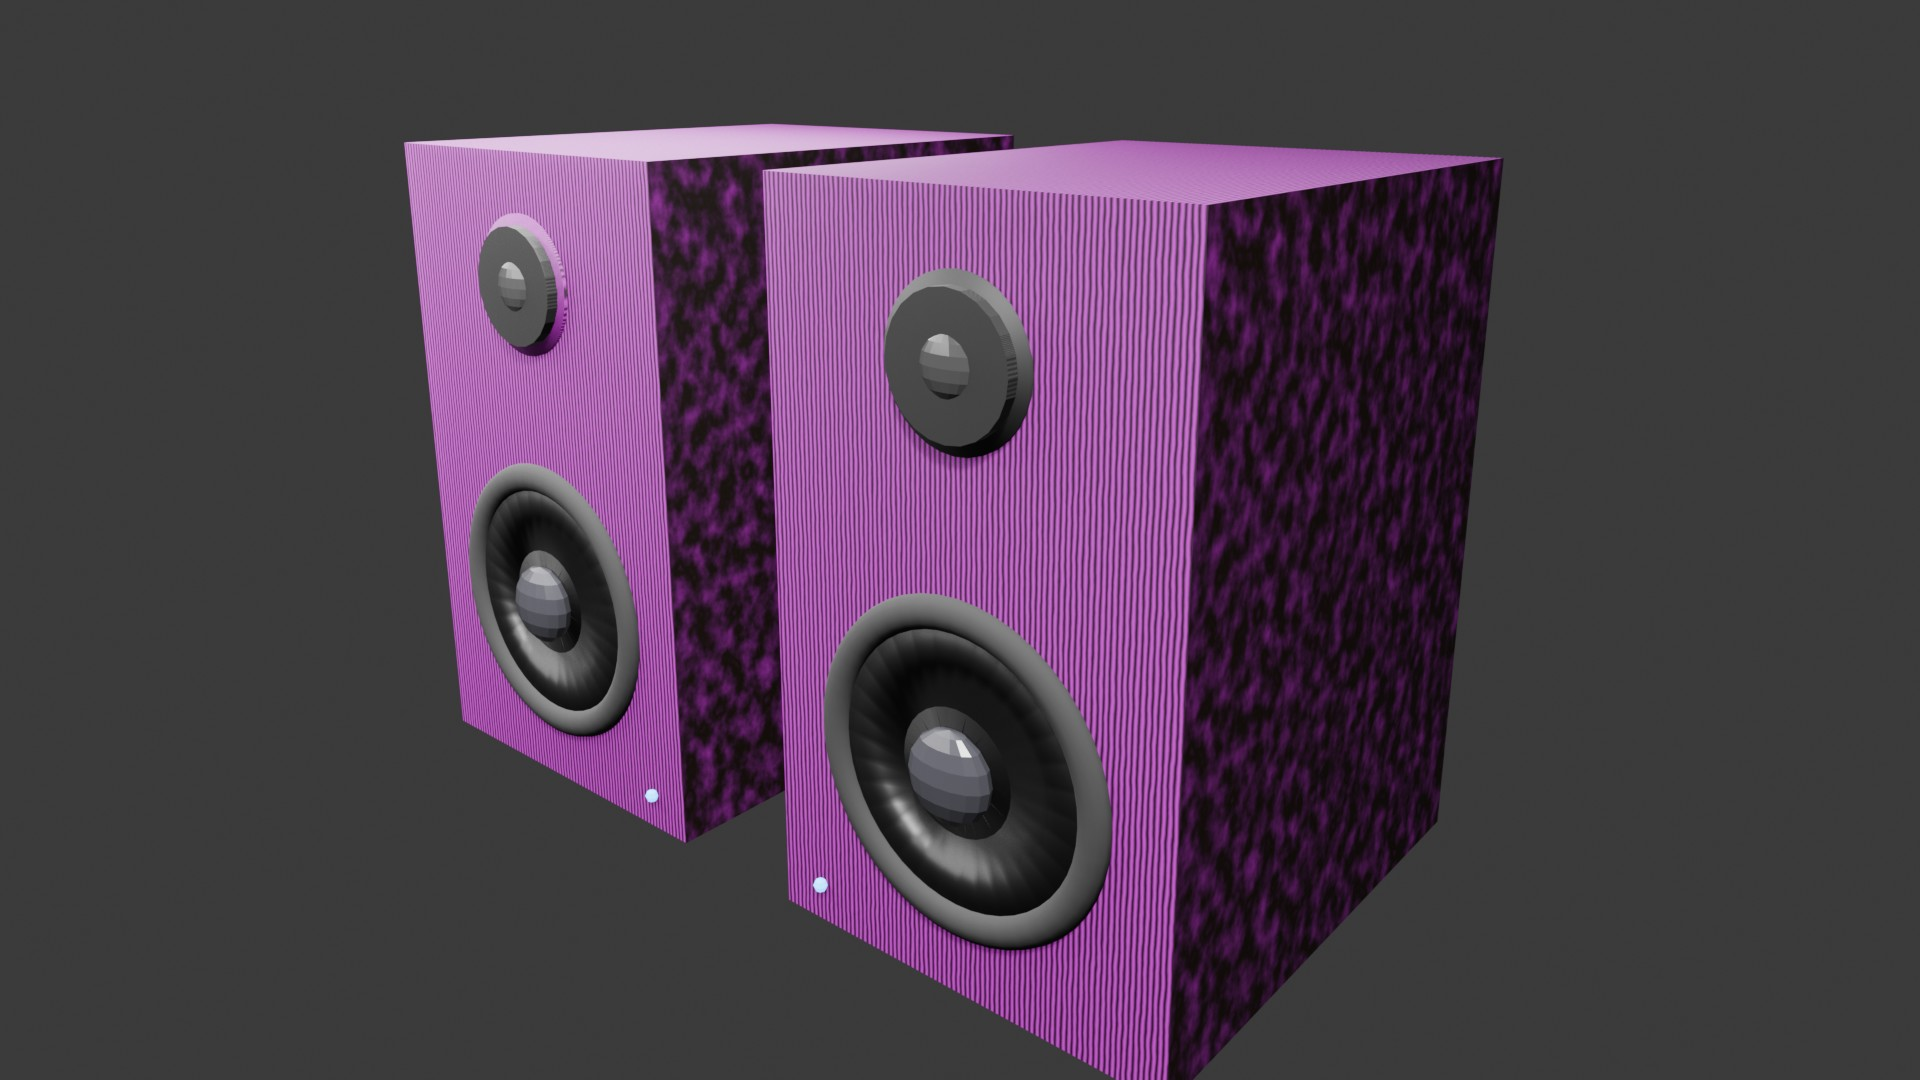
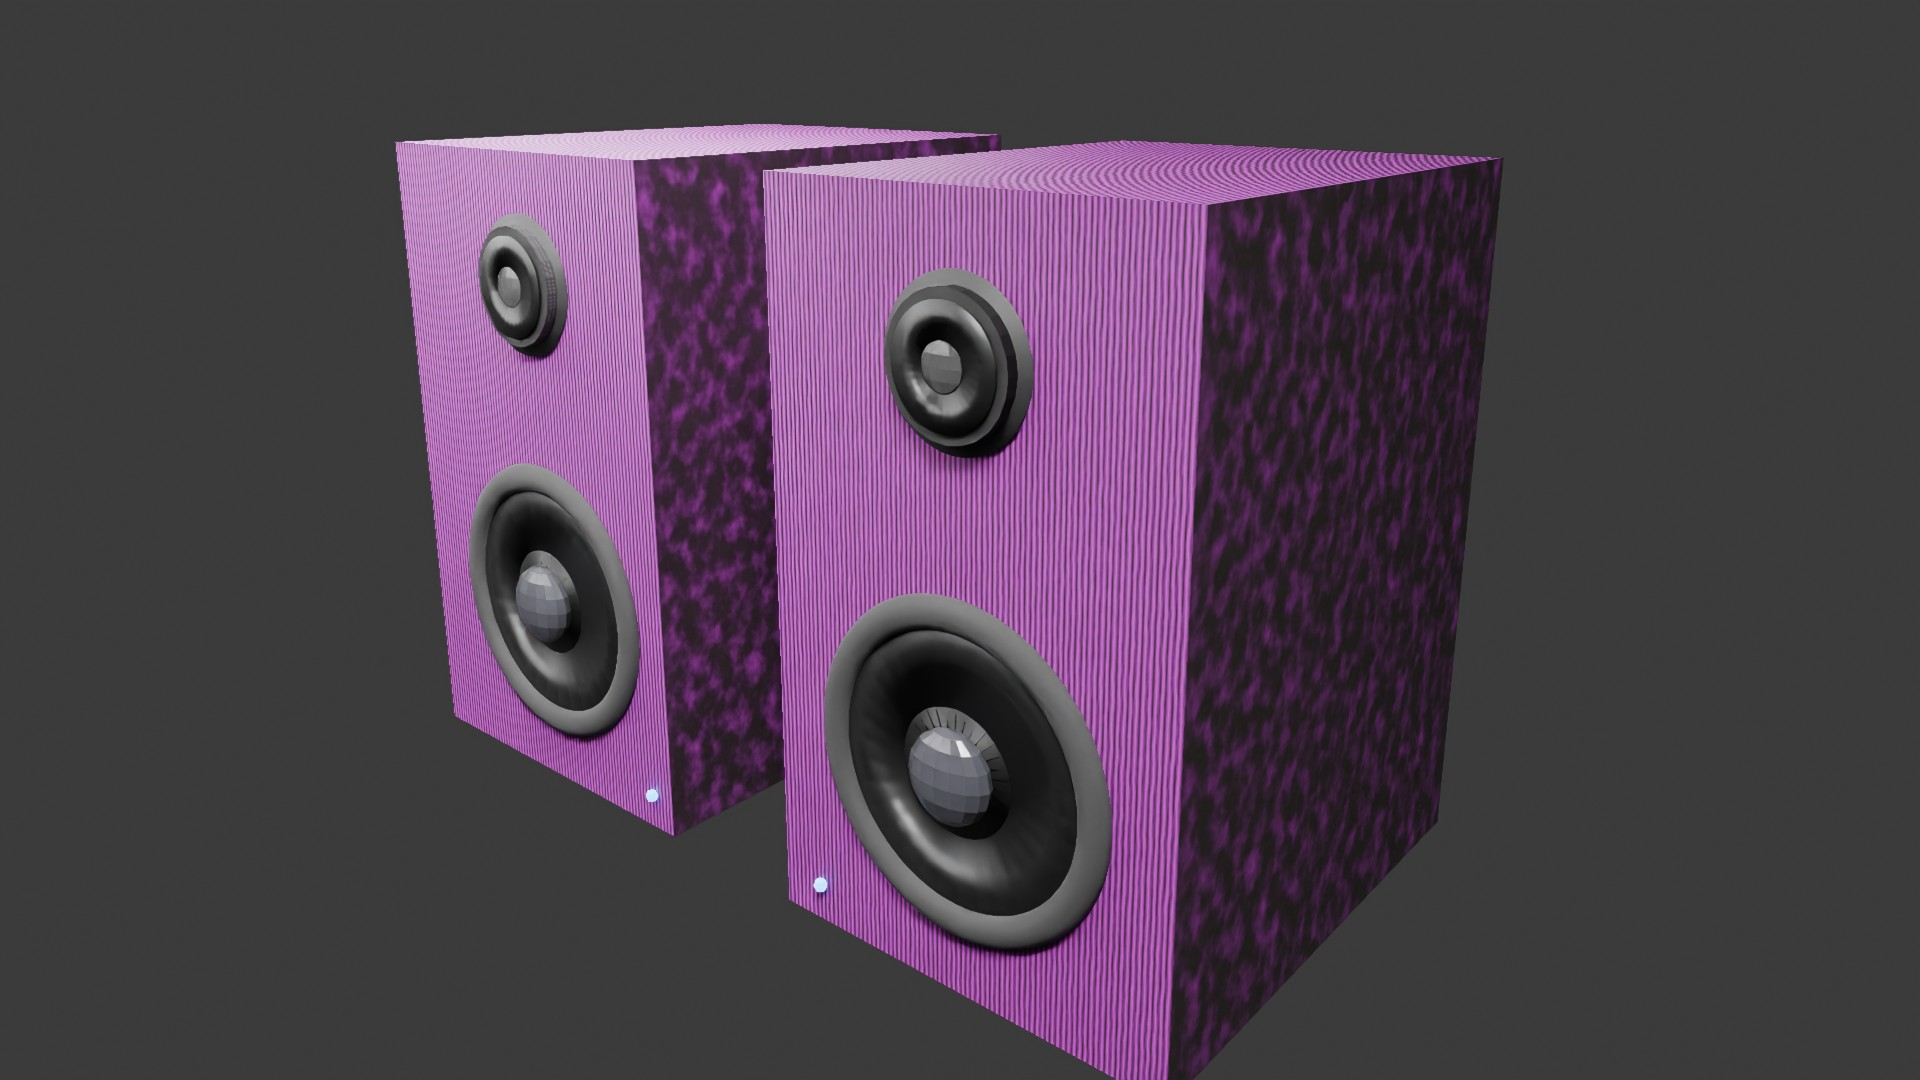
progress - gallery

diff --git a/js/main.js b/js/main.js
@@ -1,44 +1,272 @@
-let scene, camera, renderer, box;
+import * as THREE from 'three';
+import { GLTFLoader } from 'three/addons/loaders/GLTFLoader.js';
+import { OrbitControls } from 'three/addons/controls/OrbitControls.js';
 
-init();
+
+let scene, camera, renderer, controls;
+let currentModel = null;
+let mixer = null;
+let clock = new THREE.Clock();
+let autoRotate = false;
+let animationPlaying = false;
+let spotLight, spotLightOn = false, spotLightIntensity = 3;
+
 
 function init() {
+    const container = document.getElementById('threejs-container');
+    if (!container) return; 
+
+    const width  = container.clientWidth;
+    const height = container.clientHeight || 500;
+
+    // Scene
     scene = new THREE.Scene();
 
-    scene.background = new THREE.Color(0x121212);
 
-    camera = new THREE.PerspectiveCamera(75, window.innerWidth / window.innerHeight, 0.1, 1000);
-    camera.position.z = 3;
+    // Camera
+    camera = new THREE.PerspectiveCamera(50, width / height, 0.1, 1000);
+    camera.position.set(0, 1, 3);
 
-    renderer = new THREE.WebGLRenderer
-    renderer.setSize(window.innerWidth, window.innerHeight);
-    document.body.appendChild(renderer.domElement);
+    // Renderer
+    renderer = new THREE.WebGLRenderer({ antialias: true });
+    renderer.setSize(width, height);
+    renderer.setPixelRatio(window.devicePixelRatio);
+    renderer.shadowMap.enabled = true;
+    container.appendChild(renderer.domElement);
 
-    const light = new THREE.DirectionalLight();
-    light.position.set(0, 1, 2).normalize();
-    scene.add(light);
+    // Lights
+    const ambientLight = new THREE.AmbientLight(0xffffff, 0.5);
+    scene.add(ambientLight);
 
-    const material = new THREE.MeshStandardMaterial({ color: 0x81D8D0 });
+    const dirLight = new THREE.DirectionalLight(0xffffff, 1.2);
+    dirLight.position.set(5, 10, 7.5);
+    dirLight.castShadow = true;
+    scene.add(dirLight);
 
-    const geometry = new THREE.BoxGeometry(1, 1, 1);
-    box = new THREE.Mesh(geometry, material);
-    box.position.x = 0;
-    scene.add(box);
+    spotLight = new THREE.SpotLight(0xfff4e0, 0);
+    spotLight.position.set(0, 5, 3);
+    spotLight.angle = Math.PI / 6;
+    spotLight.penumbra = 0.3;
+    spotLight.decay = 1;
+    spotLight.distance = 25;
+    spotLight.castShadow = true;
+    spotLight.target.position.set(0, 0, 0);
+    scene.add(spotLight);
+    scene.add(spotLight.target);
 
-    window.addEventListener('resize', onWindowResize, false);
+    // controls
+    controls = new OrbitControls(camera, renderer.domElement);
+    controls.enableDamping = true;
+    controls.target.set(0, 0.5, 0);
+    controls.update();
 
-    update();
+    // Resize handler
+    window.addEventListener('resize', onResize);
+
+    animate();
 }
 
-function update() {
-    requestAnimationFrame(update);
-    box.rotation.x += 0.01;
-    box.rotation.y += 0.01;
+function onResize() {
+    const container = document.getElementById('threejs-container');
+    if (!container || !renderer) return;
+    camera.aspect = container.clientWidth / container.clientHeight;
+    camera.updateProjectionMatrix();
+    renderer.setSize(container.clientWidth, container.clientHeight);
+}
+
+// Animation 
+function animate() {
+    requestAnimationFrame(animate);
+    const delta = clock.getDelta();
+
+    if (mixer) mixer.update(delta);
+    if (autoRotate && currentModel) currentModel.rotation.y += 0.008;
+
+    controls.update();
     renderer.render(scene, camera);
 }
 
-function onresize() {
-    camera.aspect = window.innerWidth / window.innerHeight;
-    camera.updateProjectionMatrix();
-    renderer.setSize(window.innerWidth, window.innerHeight);
+//Load models by product ID
+function loadModel(id) {
+    const modelMap = {
+        1: 'models/product1.glb',   // Vinyl Record
+        2: 'models/product2.glb',   // Speakers
+        3: 'models/product3.glb'    // Headphones
+    };
+
+    const path = modelMap[id];
+    if (!path) return;
+
+
+    if (!renderer) init();
+
+    if (currentModel) {
+        scene.remove(currentModel);
+        currentModel.traverse((child) => {
+            if (child.isMesh) {
+                child.geometry.dispose();
+                const mats = Array.isArray(child.material)
+                    ? child.material : [child.material];
+                mats.forEach(m => m.dispose());
+            }
+        });
+        currentModel = null;
+        mixer = null;
+        animationPlaying = false;
+        const btn = document.querySelector("button[onclick='playAnimation()']");
+        if (btn) {
+            btn.textContent = 'Play Animation';
+            btn.classList.remove('btn-success');
+            btn.classList.add('btn-secondary');
+        }
+    }
+
+
+    const container = document.getElementById('threejs-container');
+    const loader_div = document.createElement('div');
+    loader_div.id = 'model-loader';
+    loader_div.style.cssText = `
+        position:absolute; top:50%; left:50%;
+        transform:translate(-50%,-50%);
+        color:white; font-size:1rem; z-index:10;
+    `;
+    container.style.position = 'relative';
+    container.appendChild(loader_div);
+
+    const loader = new GLTFLoader();
+    loader.load(
+        path,
+
+        // onLoad 
+        (gltf) => {
+            // Remove loading text
+            const ld = document.getElementById('model-loader');
+            if (ld) ld.remove();
+
+            currentModel = gltf.scene;
+
+            // Auto-centre and scale the model
+            const box = new THREE.Box3().setFromObject(currentModel);
+            const centre = box.getCenter(new THREE.Vector3());
+            const size   = box.getSize(new THREE.Vector3());
+            const maxDim = Math.max(size.x, size.y, size.z);
+            const scale  = 2 / maxDim;             // normalise to ~2 units tall
+            currentModel.scale.setScalar(scale);
+            currentModel.position.sub(centre.multiplyScalar(scale));
+
+            scene.add(currentModel);
+
+
+            if (gltf.animations && gltf.animations.length > 0) {
+                mixer = new THREE.AnimationMixer(currentModel);
+                currentModel.userData.animations = gltf.animations;
+                console.log(`Model ${id} has ${gltf.animations.length} animation(s)`);
+            }
+
+            if (window.populateProductInfo) {
+                window.populateProductInfo(id);
+            }
+        },
+
+
+        (xhr) => {
+            const pct = Math.round((xhr.loaded / xhr.total) * 100);
+            const ld = document.getElementById('model-loader');
+            if (ld) ld.textContent = `Loading… ${pct}%`;
+        },
+
+        (error) => {
+            console.error('GLTFLoader error:', error);
+            const ld = document.getElementById('model-loader');
+            if (ld) ld.textContent = '⚠ Could not load model. Check the console.';
+        }
+    );
 }
+
+
+window.loadProduct = function(id) {
+
+    if (window.showSection) window.showSection('products');
+
+    
+    setTimeout(() => loadModel(id), 50);
+};
+
+window.toggleWireframe = function() {
+    if (!currentModel) return;
+    currentModel.traverse((child) => {
+        if (child.isMesh) {
+            const mats = Array.isArray(child.material)
+                ? child.material : [child.material];
+            mats.forEach(m => { m.wireframe = !m.wireframe; });
+        }
+    });
+};
+
+window.toggleRotate = function() {
+    autoRotate = !autoRotate;
+};
+
+window.playAnimation = function() {
+    if (!mixer || !currentModel?.userData?.animations?.length) {
+        console.log('No animation found on this model');
+        return;
+    }
+
+    animationPlaying = !animationPlaying;
+
+    const animations = currentModel.userData.animations;
+    animations.forEach(clip => {
+        const action = mixer.clipAction(clip);
+        if (animationPlaying) {
+            action.reset();
+            action.setLoop(THREE.LoopRepeat);
+            action.clampWhenFinished = false;
+            action.play();
+        } else {
+            action.stop();
+        }
+    });
+
+    const btn = document.querySelector("button[onclick='playAnimation()']");
+    if (btn) {
+        btn.textContent = animationPlaying ? 'Animation ON' : 'Play Animation';
+        btn.classList.toggle('btn-secondary', !animationPlaying);
+        btn.classList.toggle('btn-success', animationPlaying);
+    }
+};
+
+window.setCamera = function(preset) {
+    const positions = {
+        front: [0, 1, 3],
+        top:   [0, 4, 0.1],
+        hero:  [2, 1.5, 2.5]
+    };
+    const pos = positions[preset] || positions.front;
+    camera.position.set(...pos);
+    controls.target.set(0, 0.5, 0);
+    controls.update();
+};
+
+window.toggleLight = function(type) {
+    if (type !== 'spot light') return;
+    spotLightOn = !spotLightOn;
+    spotLight.intensity = spotLightOn ? spotLightIntensity : 0;
+
+    const btn = document.querySelector("button[onclick=\"toggleLight('spot light')\"]");
+    if (btn) {
+        btn.textContent = spotLightOn ? 'Spot Light ON' : 'Spot Light';
+        btn.classList.toggle('btn-warning', !spotLightOn);
+        btn.classList.toggle('btn-success', spotLightOn);
+    }
+};
+
+window.setLightIntensity = function(value) {
+    spotLightIntensity = parseFloat(value) * 3;  // slider 0-2 → intensity 0-6
+    if (spotLightOn) spotLight.intensity = spotLightIntensity;
+};
+
+window.playSound = function() {
+    const audio = new Audio('audio/speaker-demo.mp3');
+    audio.play().catch(() => console.log('Audio needs a user gesture first'));
+};

diff --git a/js/getJsonData.js b/js/getJsonData.js
@@ -1,0 +1,29 @@
+let productData = null;
+
+$(document).ready(function() {
+    $.getJSON('application/model/data.json', function(data) {
+        productData = data.products;
+
+        // Populate gallery row with all product thumbnails
+        let galleryHtml = '';
+        productData.forEach(p => {
+            galleryHtml += `
+                <div class="col-md-2 col-4 mb-3">
+                    <img src="${p.thumbnail}" class="img-fluid gallery-thumb"
+                         onclick="loadProduct(${p.id})" alt="${p.title}">
+                </div>`;
+        });
+        $('#gallery-row').html(galleryHtml);
+    }).fail(function() {
+        console.error('Failed to load product data');
+    });
+});
+
+// Called from main.js after a model loads
+window.populateProductInfo = function(id) {
+    if (!productData) return;
+    const p = productData.find(x => x.id === id);
+    if (!p) return;
+    $('#product-title').text(p.title);
+    $('#product-description').text(p.description);
+};

diff --git a/css/style.css b/css/style.css
@@ -67,10 +67,6 @@ body {
 .gallery-thumb:hover { opacity: 0.7; }
 
 
-.btn-outline-primary {
-    border-color: #ffffff;
-    color: #000000;
-}
 
 
 
@@ -82,10 +78,7 @@ body {
     to   { opacity: 1; transform: translateY(0); }
 }
 
-.btn:focus, a:focus {
-    outline: 3px solid #ffffff !important;
-    outline-offset: 2px;
-}
+
 
 /* Card body styling: dark background to match site theme */
 .card, .card-body {

diff --git a/index.html b/index.html
@@ -32,8 +32,7 @@
 
     <section id="home-section" class="content-section">
         <div class="container py-5">
-            <h1 class="display-4">Welcome to V Studios</h1>
-            <p class="lead"> Interactive 3D gallery.</p>
+            <h1 class="display-4">Interactive 3D gallery</h1>
             <div class="row mt-5">
                 <div class="col-md-4">
                     <div class="card product-card" onclick="loadProduct(1)">
@@ -113,10 +112,9 @@
                     <div class="card">
                         <div class="card-body">
                             <h6 class="card-subtitle mb-2 text-muted">Lighting</h6>
-                            <button class="btn btn-sm btn-warning m-1" onclick="toggleLight('ambient')">Ambient</button>
-                            <button class="btn btn-sm btn-warning m-1" onclick="toggleLight('directional')">Directional</button>
+                            <button class="btn btn-sm btn-warning m-1" onclick="toggleLight('spot light')">Spot Light</button>
                             <label class="d-block mt-2">Intensity
-                                <input type="range" min="0" max="2" step="0.1" value="1" oninput="setLightIntensity(this.value)">
+                                <input type="range" min="0" max="100" step="0.1" value="1" oninput="setLightIntensity(this.value)">
                             </label>
                         </div>
                     </div>